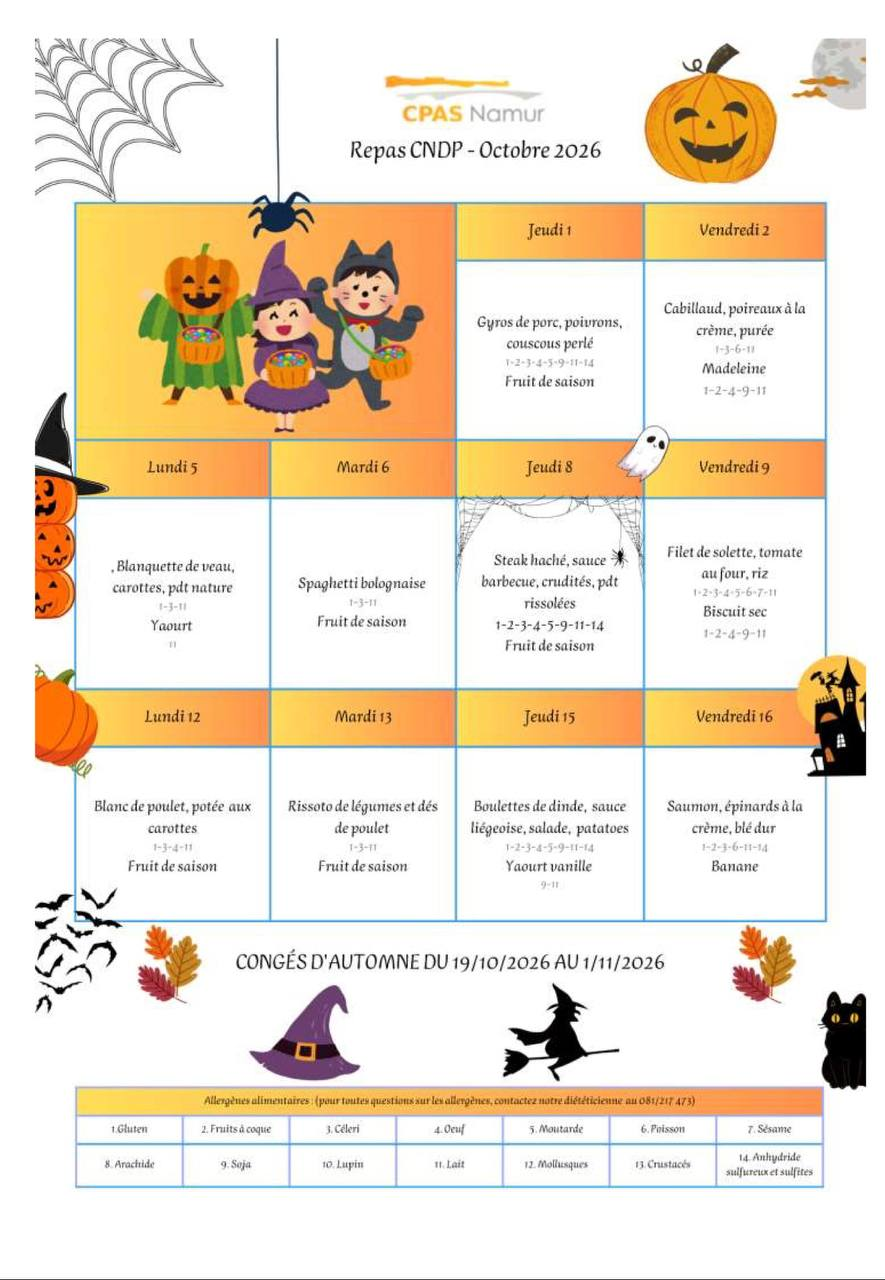
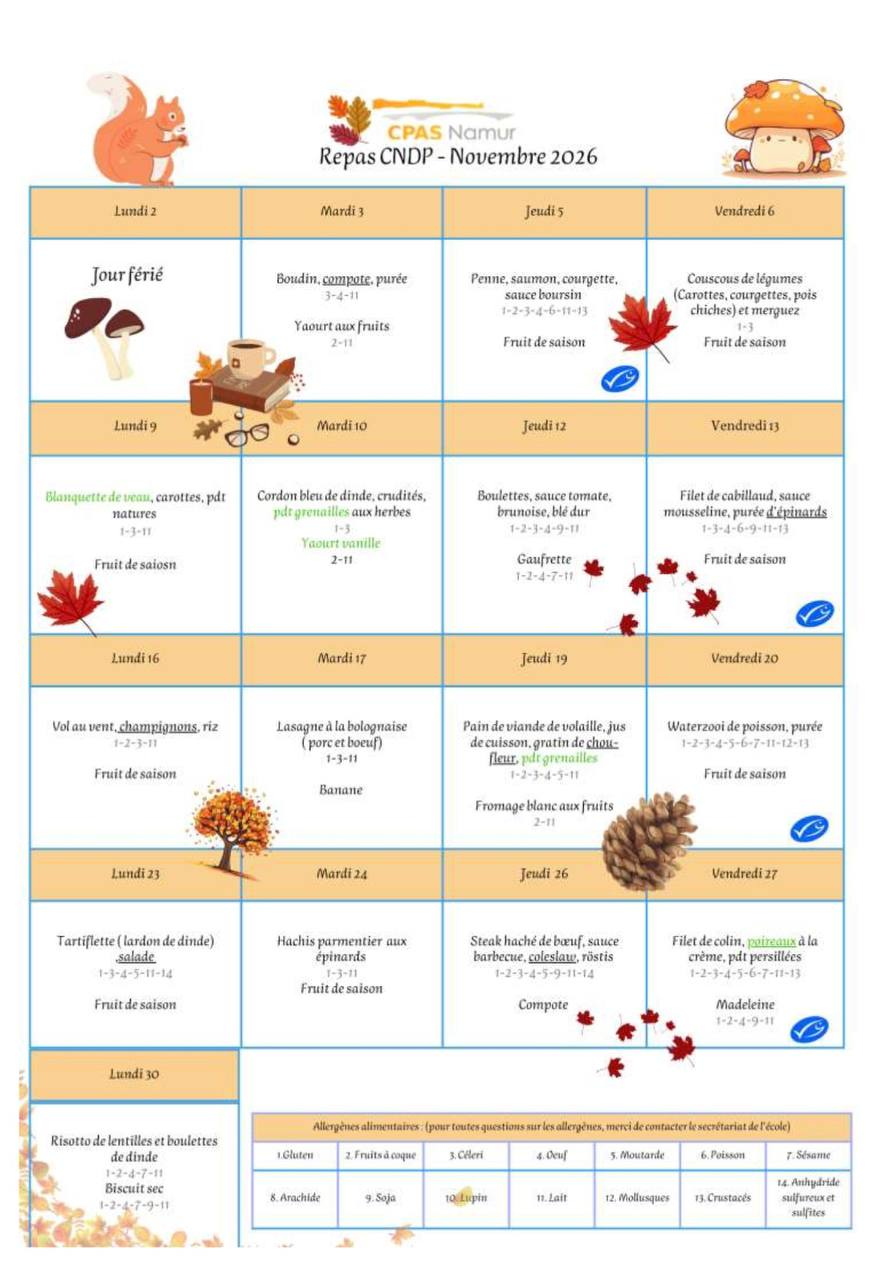
Add files via upload

diff --git a/index.html b/index.html
@@ -179,6 +179,9 @@ main{max-width:660px;margin:0 auto;padding:14px 14px 60px;position:relative;z-in
 .an{font-weight:700;font-size:14.5px}
 .aw{font-size:12px;color:var(--muted);margin-top:2px}
 .ai-row{justify-content:space-between}
+.ai-row.ev-flash{animation:evFlash 1.5s ease;border-radius:10px}
+@keyframes evFlash{0%,100%{background:transparent}25%,65%{background:rgba(255,210,63,.4)}}
+@media(prefers-reduced-motion:reduce){.ai-row.ev-flash{animation:none}}
 .ics-btn{background:var(--sky);color:#fff;font-size:12px;font-weight:800;padding:9px 16px;border-radius:20px;text-decoration:none;white-space:nowrap;flex-shrink:0;-webkit-tap-highlight-color:transparent}
 .ics-btn:hover{text-decoration:none;opacity:.88}
 .doc-dl{margin-top:10px;background:var(--tag);border-radius:12px;padding:11px 12px;border:1px solid var(--border)}
@@ -292,6 +295,10 @@ nav{
       <span class="today-ico">📅</span>
       <span class="today-date" id="todayDate">Aujourd'hui</span>
       <span class="today-msg" id="todayMsg"></span>
+    </div>
+    <div class="today-jdc" id="todayHoliday" style="display:none">
+      <span class="today-jdc-ico">🍂</span>
+      <span><b id="todayHolTitle" style="color:#B9790A"></b><span class="today-jdc-sub" id="todayHolSub"></span></span>
     </div>
     <div class="today-jdc" id="todayJdc" style="display:none">
       <span class="today-jdc-ico">✍</span>
@@ -742,8 +749,9 @@ const EVENTS=[
   {cat:'ad',ico:'🏃',title:'Adeps P4',allDay:true,start:[2026,9,29],end:[2026,9,30],p5:false},
   {cat:'hol',ico:'🍂',title:"Congé d'automne (Toussaint)",desc:'Retour le 03/11',allDay:true,start:[2026,10,17],end:[2026,11,3],p5:true},
   {cat:'ev',ico:'🕯',title:'Fête des morts',allDay:true,start:[2026,11,2],end:[2026,11,3],p5:false},
+  {cat:'ev',ico:'🧥',title:'Semaine sans chauffage',desc:'Chauffage coupé — habillez les enfants chaudement (pulls chauds)',allDay:true,start:[2026,11,2],end:[2026,11,7],p5:true},
   {cat:'hol',ico:'🕊',title:'Armistice',desc:'Jour férié',allDay:true,start:[2026,11,11],end:[2026,11,12],p5:true},
-  {cat:'ev',ico:'🛍',title:'Brocante AP',allDay:true,start:[2026,11,15],end:[2026,11,16],p5:false},
+  {cat:'ev',ico:'🛍',title:'14ème Brocante couverte',time:'8h30–14h30',loc:'Au Collège, Place ND de la Paix, 5101 Erpent — parking gratuit, bar et petite restauration',desc:'Jouets, vêtements, déco… Réservations exposants sur www.brocante-ap-cndp.be dès le 25/10 11h00 — 9€/table',allDay:true,start:[2026,11,15],end:[2026,11,16],p5:true},
   {cat:'eval',ico:'📊',title:'Bulletins — période de remise',allDay:true,start:[2026,11,23],end:[2026,11,28],p5:true},
   {cat:'fete',ico:'🎅',title:"Saint-Nicolas à l'école",desc:'École normalement',allDay:true,start:[2026,12,4],end:[2026,12,5],p5:true},
   {cat:'hol',ico:'❄',title:"Congé d'hiver (Noël)",desc:'Retour le 04/01',allDay:true,start:[2026,12,19],end:[2027,1,4],p5:true},
@@ -802,7 +810,7 @@ function buildCal(){
     const dim=new Date(y,m,0).getDate();
     const mev=[];
     for(let d=1;d<=dim;d++){const k=y+'-'+m+'-'+d;if(DAY_MAP[k])mev.push({d,evs:DAY_MAP[k]});}
-    h+='<div class="cal-card">';
+    h+='<div class="cal-card" id="cal-'+y+'-'+m+'">';
     h+='<div class="cal-mhead" style="background:'+MHC[idx]+'">'+MFR[m-1]+' '+y+'</div>';
     h+='<div class="cal-g">';
     WD.forEach((n,i)=>{h+='<div class="cal-wd'+(i>=5?' we':'')+'">'+n+'</div>';});
@@ -813,7 +821,9 @@ function buildCal(){
       const hf=inHol(y,m,d);
       const col=hf?EC.hol:(evs.length?EC[evs[0].cat]:'');
       const hasEv=hf||evs.length;
-      h+='<div class="cal-dc'+(we?' we':'')+(hasEv?' has-ev':'')+'"><span class="cal-dn"'+(col?' style="background:'+col+';color:#fff"':'')+'>'+d+'</span></div>';
+      const evKey=dateEventKey(y,m,d);
+      const clickAttr=evKey?' onclick="goToDateEntry(\''+evKey+'\')" style="cursor:pointer"':'';
+      h+='<div class="cal-dc'+(we?' we':'')+(hasEv?' has-ev':'')+'"'+clickAttr+'><span class="cal-dn"'+(col?' style="background:'+col+';color:#fff"':'')+'>'+d+'</span></div>';
     }
     h+='</div>';
     if(mev.length){
@@ -910,6 +920,47 @@ function isSchoolDay(d){
   return true;
 }
 
+function holAt(y,m,d){
+  const v=y*10000+m*100+d;
+  return EVENTS.find(e=>{
+    if(e.cat!=='hol')return false;
+    const sv=e.start[0]*10000+e.start[1]*100+e.start[2];
+    const ev2=e.end[0]*10000+e.end[1]*100+e.end[2];
+    return v>=sv&&v<ev2;
+  });
+}
+function currentHoliday(now){
+  return holAt(now.getFullYear(),now.getMonth()+1,now.getDate());
+}
+function dateEventKey(y,m,d){
+  const k=y+'-'+m+'-'+d;
+  const evs=DAY_MAP[k]||[];
+  if(evs.some(e=>e.p5))return k;
+  const hol=holAt(y,m,d);
+  if(hol)return hol.start[0]+'-'+hol.start[1]+'-'+hol.start[2];
+  return null;
+}
+function goToDateEntry(key){
+  const btn=document.querySelector('[data-tab=imp]');
+  if(btn)show('imp',btn);
+  setTimeout(function(){
+    const el=document.getElementById('ev-'+key);
+    if(el){
+      el.scrollIntoView({behavior:'smooth',block:'center'});
+      el.classList.add('ev-flash');
+      setTimeout(function(){el.classList.remove('ev-flash');},1500);
+    }
+  },60);
+}
+
+function holidayMsg(hol){
+  const lastDay=new Date(hol.end[0],hol.end[1]-1,hol.end[2]-1);
+  const retDay=new Date(hol.end[0],hol.end[1]-1,hol.end[2]);
+  const fmt=new Intl.DateTimeFormat('fr-BE',{day:'numeric',month:'long'});
+  const fmtDow=new Intl.DateTimeFormat('fr-BE',{weekday:'long'});
+  return "Jusqu'au "+fmt.format(lastDay)+' inclus ('+fmtDow.format(lastDay)+') — retour le '+fmt.format(retDay)+' ('+fmtDow.format(retDay)+')';
+}
+
 function renderToday(){
   const dEl=document.getElementById('todayDate'), mEl=document.getElementById('todayMsg');
   if(!dEl)return;
@@ -919,6 +970,17 @@ function renderToday(){
   if(mEl)mEl.textContent=TODAY_MSG;
   const jdcEl=document.getElementById('todayJdc');
   if(jdcEl)jdcEl.style.display=isSchoolDay(now)?'':'none';
+  const holEl=document.getElementById('todayHoliday');
+  if(holEl){
+    const hol=currentHoliday(now);
+    if(hol){
+      holEl.style.display='';
+      document.getElementById('todayHolTitle').textContent=hol.title;
+      document.getElementById('todayHolSub').textContent=holidayMsg(hol);
+    } else {
+      holEl.style.display='none';
+    }
+  }
 }
 
 function renderRdv(){
@@ -1010,10 +1072,11 @@ function makeICS(ev){
 const impGrid=document.getElementById('imp-grid');
 if(impGrid){
   EVENTS.filter(e=>e.p5).forEach(ev=>{
+    const key=ev.start[0]+'-'+ev.start[1]+'-'+ev.start[2];
     impGrid.insertAdjacentHTML('beforeend',
-      '<div class="ai ai-row"><div style="display:flex;align-items:center;gap:12px">'
+      '<div class="ai ai-row" id="ev-'+key+'"><div style="display:flex;align-items:center;gap:12px">'
       +'<div class="ap" style="background:'+EC[ev.cat]+'"></div>'
-      +'<div><div class="an">'+ev.ico+' '+escHtml(ev.title)+'</div><div class="aw">'+evLabel(ev)+'</div></div></div>'
+      +'<div><div class="an">'+ev.ico+' '+escHtml(ev.title)+'</div><div class="aw">'+evLabel(ev)+(ev.desc?'<br>'+escHtml(ev.desc):'')+(ev.loc?'<br>📍 '+escHtml(ev.loc):'')+'</div></div></div>'
       +'<a class="ics-btn" href="'+makeICS(ev)+'" download="'+ev.title.replace(/[^a-z0-9]+/gi,'-')+'.ics">+ Ajouter</a>'
       +'</div>');
   });
@@ -1024,6 +1087,13 @@ function show(id,btn){
   document.querySelectorAll('.nb').forEach(b=>b.classList.remove('on'));
   document.getElementById('pane-'+id).classList.add('on');
   btn.classList.add('on');
+  if(id==='cal'){
+    setTimeout(function(){
+      const now=new Date();
+      const el=document.getElementById('cal-'+now.getFullYear()+'-'+(now.getMonth()+1));
+      if(el)el.scrollIntoView({behavior:'smooth',block:'start'});
+    },50);
+  }
 }
 </script>
 </body>
